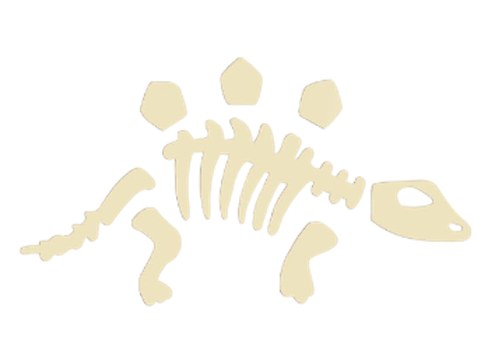
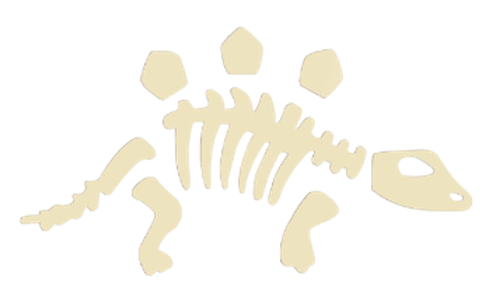
update the fossil part name

diff --git a/js/app.js b/js/app.js
@@ -86,7 +86,7 @@ FossilShapes.forEach((Fossil, index) => {
 
 //hiting the fossil
     if (positions.length === Fossil.size) {
-      Fossils.push({ name: `Fossil-${index + 1}`, positions, hits: [] })
+      Fossils.push({ part: Fossil.part, positions, hits: [] })
       placed = true
     }
   }
@@ -112,14 +112,14 @@ for (let Fossil of Fossils) {
       Fossil.hits.push(id);
       square.classList.add("hit")
       hitCount++
-      StatusText.textContent = `Hit on ${Fossil.name}✅`
+      StatusText.textContent = `Hit on ${Fossil.part}✅`
 
       if (Fossil.hits.length === Fossil.positions.length) {
         Fossil.positions.forEach(pos => {
           document.getElementById(pos).classList.add("sunk")
         })
         FossilsSunk++
-        StatusText.textContent = `You sunk ${Fossil.name}🔍👏🏻`
+        StatusText.textContent = `You sunk the ${Fossil.part}🔍👏🏻`
       }
 
       updateScore()

diff --git a/css/style.css b/css/style.css
@@ -31,10 +31,11 @@ p{
 
 }
 .checkboard img{
-  height: 250px;
-  margin-top: 85px;
+  height: 220px;
+  margin-top: 100px;
   margin-left: 10px;
-  background-color: #678E79;
+  background-color: #678e79ab;
+  border-radius: 10px;
 }
 
 .game{
@@ -49,7 +50,7 @@ p{
   float: right;
   margin-right: 6px;
   width: 28%;
-  margin-top: 160px;
+  margin-top: 150px;
 }
 
 #status{
